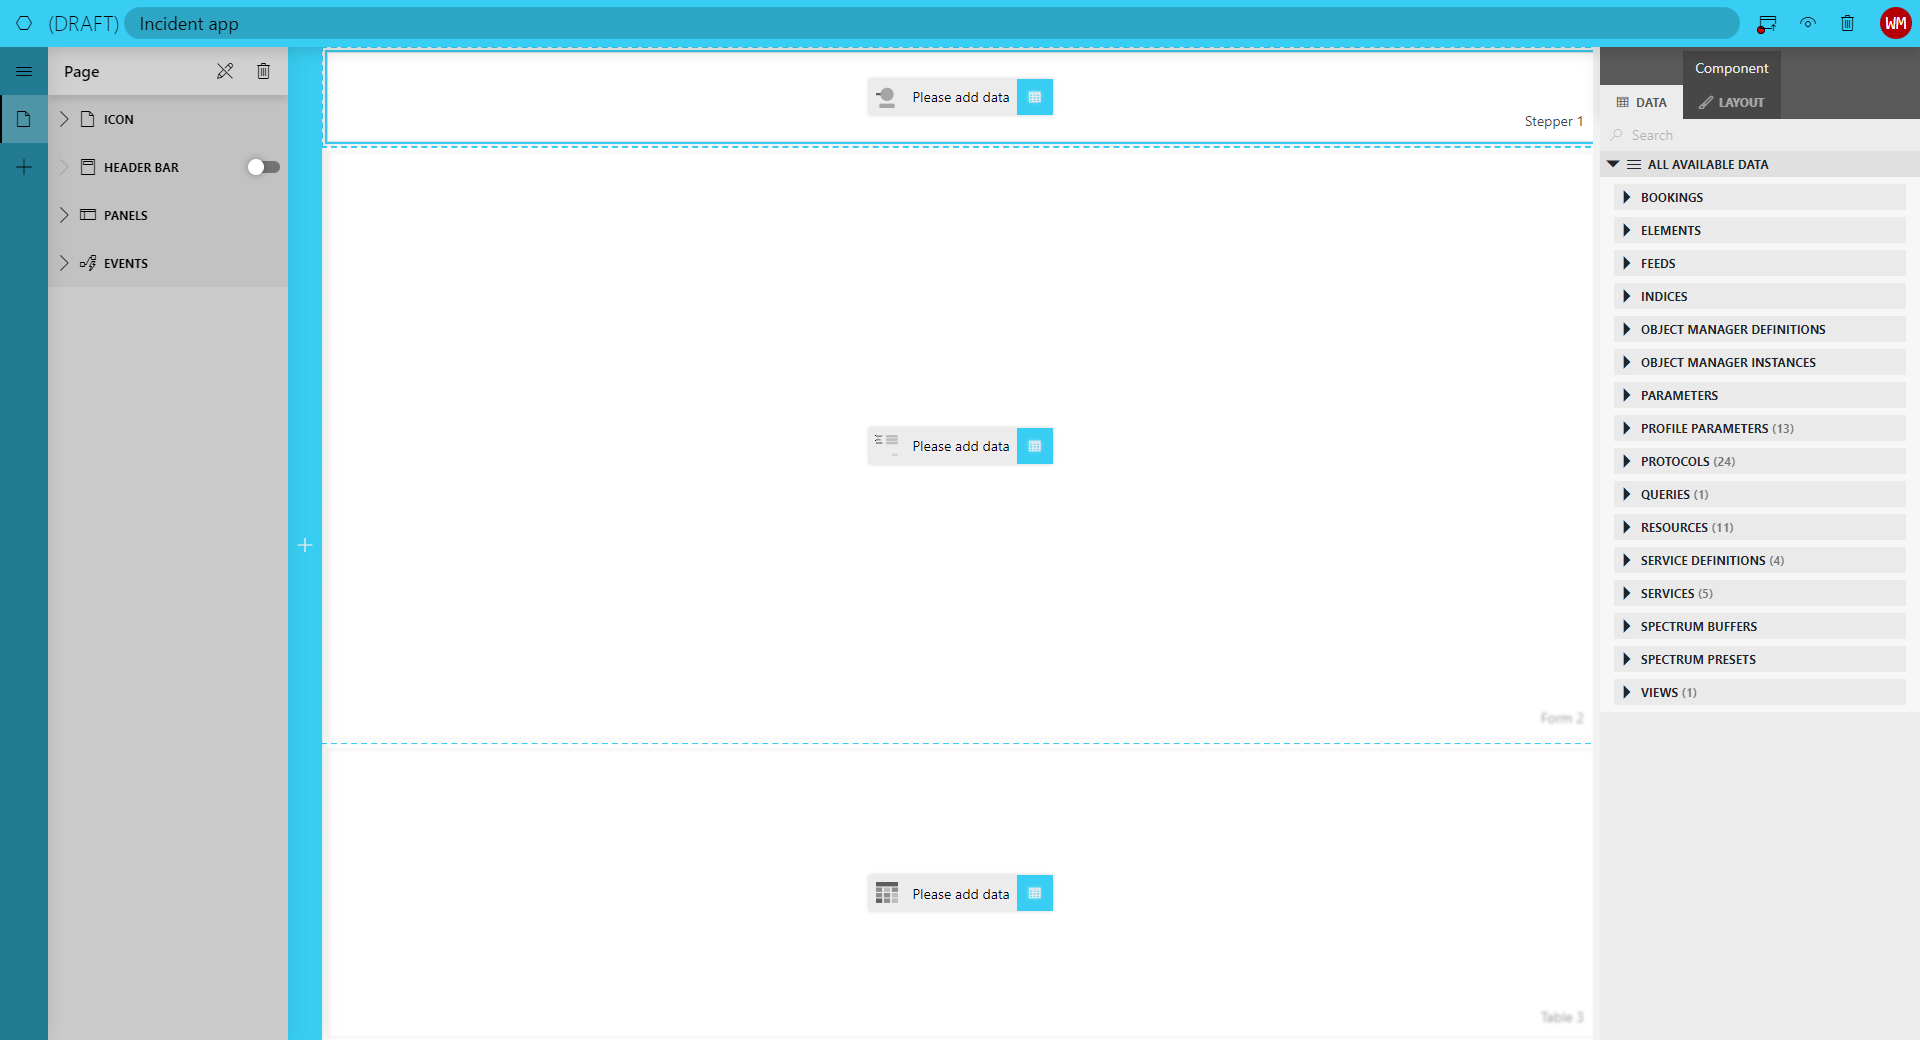
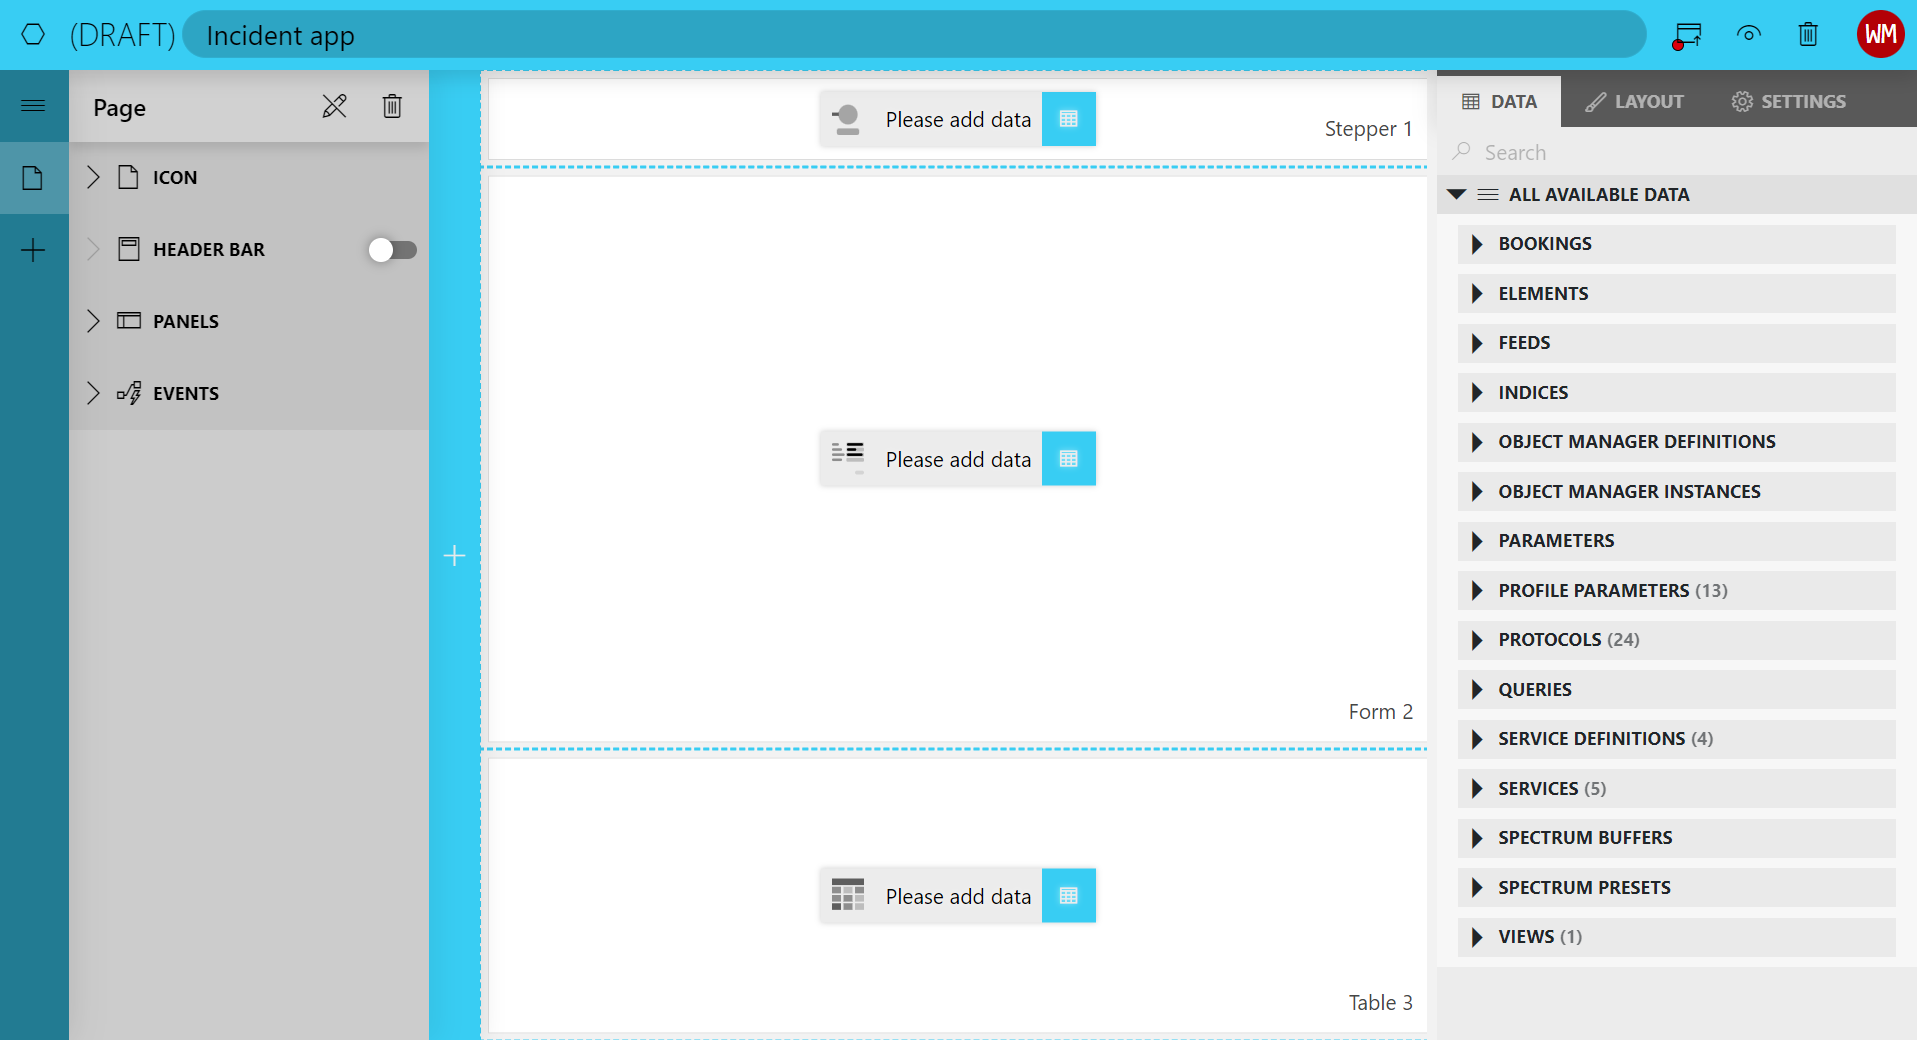
Resolved review comments

diff --git a/user-guide/Advanced_Modules/Dashboards_and_Low_Code_Apps/Visualizations/Available_visualizations/General/Stepper/StepperTutorial.md b/user-guide/Advanced_Modules/Dashboards_and_Low_Code_Apps/Visualizations/Available_visualizations/General/Stepper/StepperTutorial.md
@@ -49,14 +49,13 @@ Add data to components by [applying a data feed](xref:Configuring_dashboard_comp
 Each of the components on the page has to receive some data:
 
 - Add the DOM definition to the stepper component and the form component.
+  ![Definition data](~/user-guide/images/StepperDefinitionData.png)
 
 - Create a query to fetch all object manager instances of the DOM definition. See [Creating a GQI query](xref:Creating_GQI_query).
+  ![Incidents query](~/user-guide/images/StepperQuery.png)
 
-- Link the *Object manager instances* feed from the table component to both the stepper and the form component.
-
-The end result of this step should look like this:
-
-![Components with their data](~/user-guide/images/StepperData.png)
+- Link the *Object manager instances* feed from the table component to both the stepper and the form component. Make sure to select a row in the table to expose this feed.
+  ![Instance data](~/user-guide/images/StepperInstanceData.png)
 
 ## Step 4: Add a save action
 
@@ -86,6 +85,6 @@ To do so, use the *Appearance* setting in the component layout tab on the right.
 
 Now that everything is configured, you can publish and use your app.
 
-You can create new incidents using the form component and the save button in the header bar. You can inspect and update existing incidents by selecting them in the table component at the bottom.
+You can create new incidents using the form component and the save button in the header bar. You can inspect and update existing incidents by selecting them in the table component at the bottom. The stepper component visualizes the past states and the possible future states of an incident. This visualization clearly shows the user what steps were taken to resolve the incident and what steps still need to happen before it is fully resolved.
 
 ![Application usage](~/user-guide/images/StepperApp.gif)
